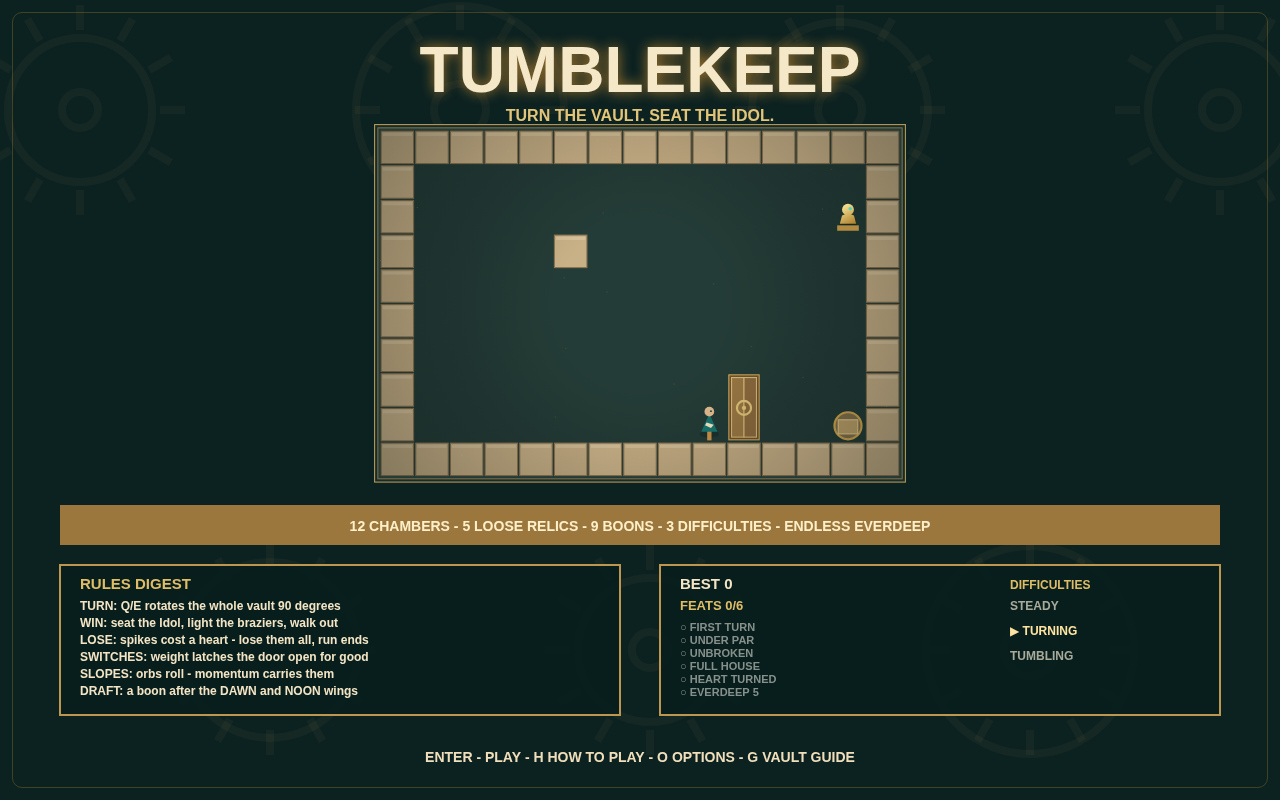
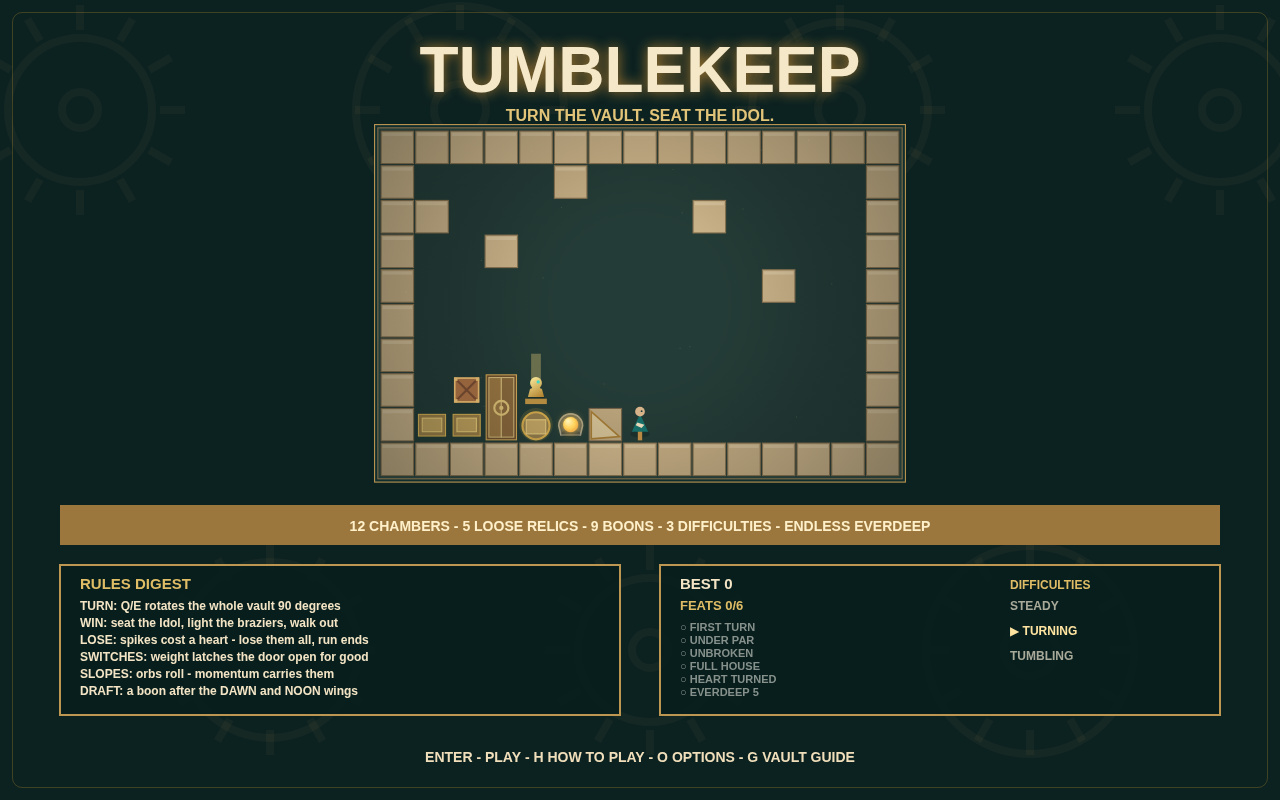
Density round: finale-chamber cover staging, EVERYTHING FALLS title demo

diff --git a/game/src/testhook.js b/game/src/testhook.js
@@ -10,33 +10,36 @@ import { spawnDust, spawnFloater, spawnStreak } from './render/fx.js';
 const playActions = (state, actions) => { for (const action of actions) applyAction(state, action); };
 
 function stagePlay(state, stage) {
-  loadChamber(state, 9);
-  // Mid-play staging (improvement round 2): the two-turn symphony has just
-  // landed — Idol seated, brazier lit, crate on the first switch — but the
-  // door is still shut and Nilo has not yet crossed to the second switch.
-  // A live decision point, not an aftermath: no clear banner, goals half met.
-  playActions(state, [{ t: 'R' }, { t: 'L' }]);
+  loadChamber(state, 11);
+  playActions(state, [...Array(7).fill({ t: '<' }), { t: 'L' }, { t: 'R' }]);
   state.events.length = 0;
-  state.score = 8450;
+  state.score = 11200;
+  state.save = { ...(state.save || {}), best: 12400 };
   state.banner = null;
   state.mode = 'play';
-  globalThis.__TK_ANGLE = 12;
+  globalThis.__TK_ANGLE = 8;
   const point = (kind, fallback) => {
     const e = state.entities.find(x => x.kind === kind);
     return boardPoint(state, e?.c ?? fallback[0], e?.r ?? fallback[1]);
   };
-  const idol = point('idol', [11, 7]), orb = point('orb', [10, 8]), crate = point('crate', [13, 7]);
+  const idol = point('idol', [11, 7]), crate = point('crate', [13, 7]);
   spawnFloater(stage, idol.x, idol.y - 44, '+300 SEATED', '#f4cb57');
-  spawnFloater(stage, orb.x, orb.y - 38, '+300 LIT', '#ffad4c');
+  for (const orbEntity of state.entities.filter(e => (e.kind === 'orb' || e.kind === 'ember') && e.seated)) {
+    const orb = boardPoint(state, orbEntity.c, orbEntity.r);
+    spawnFloater(stage, orb.x, orb.y - 38, '+300 LIT', '#ffad4c');
+  }
+  const doorTile = state.tiles.flatMap((row, r) => row.map((tile, c) => tile === 5 ? { c, r } : null)).find(Boolean);
+  if (doorTile) { const door = boardPoint(state, doorTile.c, doorTile.r); spawnFloater(stage, door.x, door.y - 38, 'LATCHED!', '#e4bf67'); }
   spawnDust(stage, idol.x, idol.y + 18, 12, '#cbb98e');
   spawnDust(stage, crate.x, crate.y + 18, 10, '#cbb98e');
   const heroEntity = state.entities.find(e => e.id === state.heroId);
   if (heroEntity) {
-    spawnStreak(stage, point('hero', [7, 8]).x - 20, point('hero', [7, 8]).y, 15, 0);
+    const heroPoint = boardPoint(state, heroEntity.c, heroEntity.r);
+    spawnStreak(stage, heroPoint.x - 20, heroPoint.y, 15, 0);
     const applyOffset = () => {
       if (window.__TK?.state !== state) return;
       const p = boardPoint(state, heroEntity.c, heroEntity.r);
-      stage.entityPos.set(heroEntity, { x: p.x - 28, y: p.y });
+      stage.entityPos.set(heroEntity, { x: p.x + 26, y: p.y });
     };
     applyOffset();
     setInterval(applyOffset, 30);
@@ -50,7 +53,7 @@ export function initTesthook() {
   if (!tk) return;
   const live = tk.state;
   const state = createRun(7, 'turning');
-  if (shot === 'play') { tk.save.best = 9650; stagePlay(state, tk.stage); }
+  if (shot === 'play') { tk.save.best = 12400; stagePlay(state, tk.stage); }
   else if (shot === 'title') {
     state.mode = 'title';
     const demo = createDemo(2077);

diff --git a/game/src/titledemo.js b/game/src/titledemo.js
@@ -1,6 +1,4 @@
-// The title's living window: chamber one, turning itself forever.
+// The title's living window: EVERYTHING FALLS, held in its settled west cluster.
 import { createRun, applyAction, loadChamber } from './sim.js';
-import { CHAMBERS } from './chambers.js';
-export function createDemo(seed=1){const s=createRun(seed,'turning');s._demoTick=0;s._demoIndex=0;return s;}
-const plan=CHAMBERS[0].solution;
-export function demoStep(demo){demo._demoTick++;if(demo.mode!=='play'||demo.chamberIdx!==0)loadChamber(demo,0);if(demo._demoTick%45===0){applyAction(demo,plan[demo._demoIndex%plan.length]);demo._demoIndex++;if(demo.mode!=='play'||demo.chamberIdx!==0){loadChamber(demo,0);demo._demoIndex=0;}}return demo;}
+export function createDemo(seed=1){const s=createRun(seed,'turning');loadChamber(s,10);applyAction(s,{t:'L'});applyAction(s,{t:'R'});s._demoTick=0;return s;}
+export function demoStep(demo){demo._demoTick++;if(demo.mode!=='play'||demo.chamberIdx!==10){loadChamber(demo,10);applyAction(demo,{t:'L'});applyAction(demo,{t:'R'});}return demo;}
